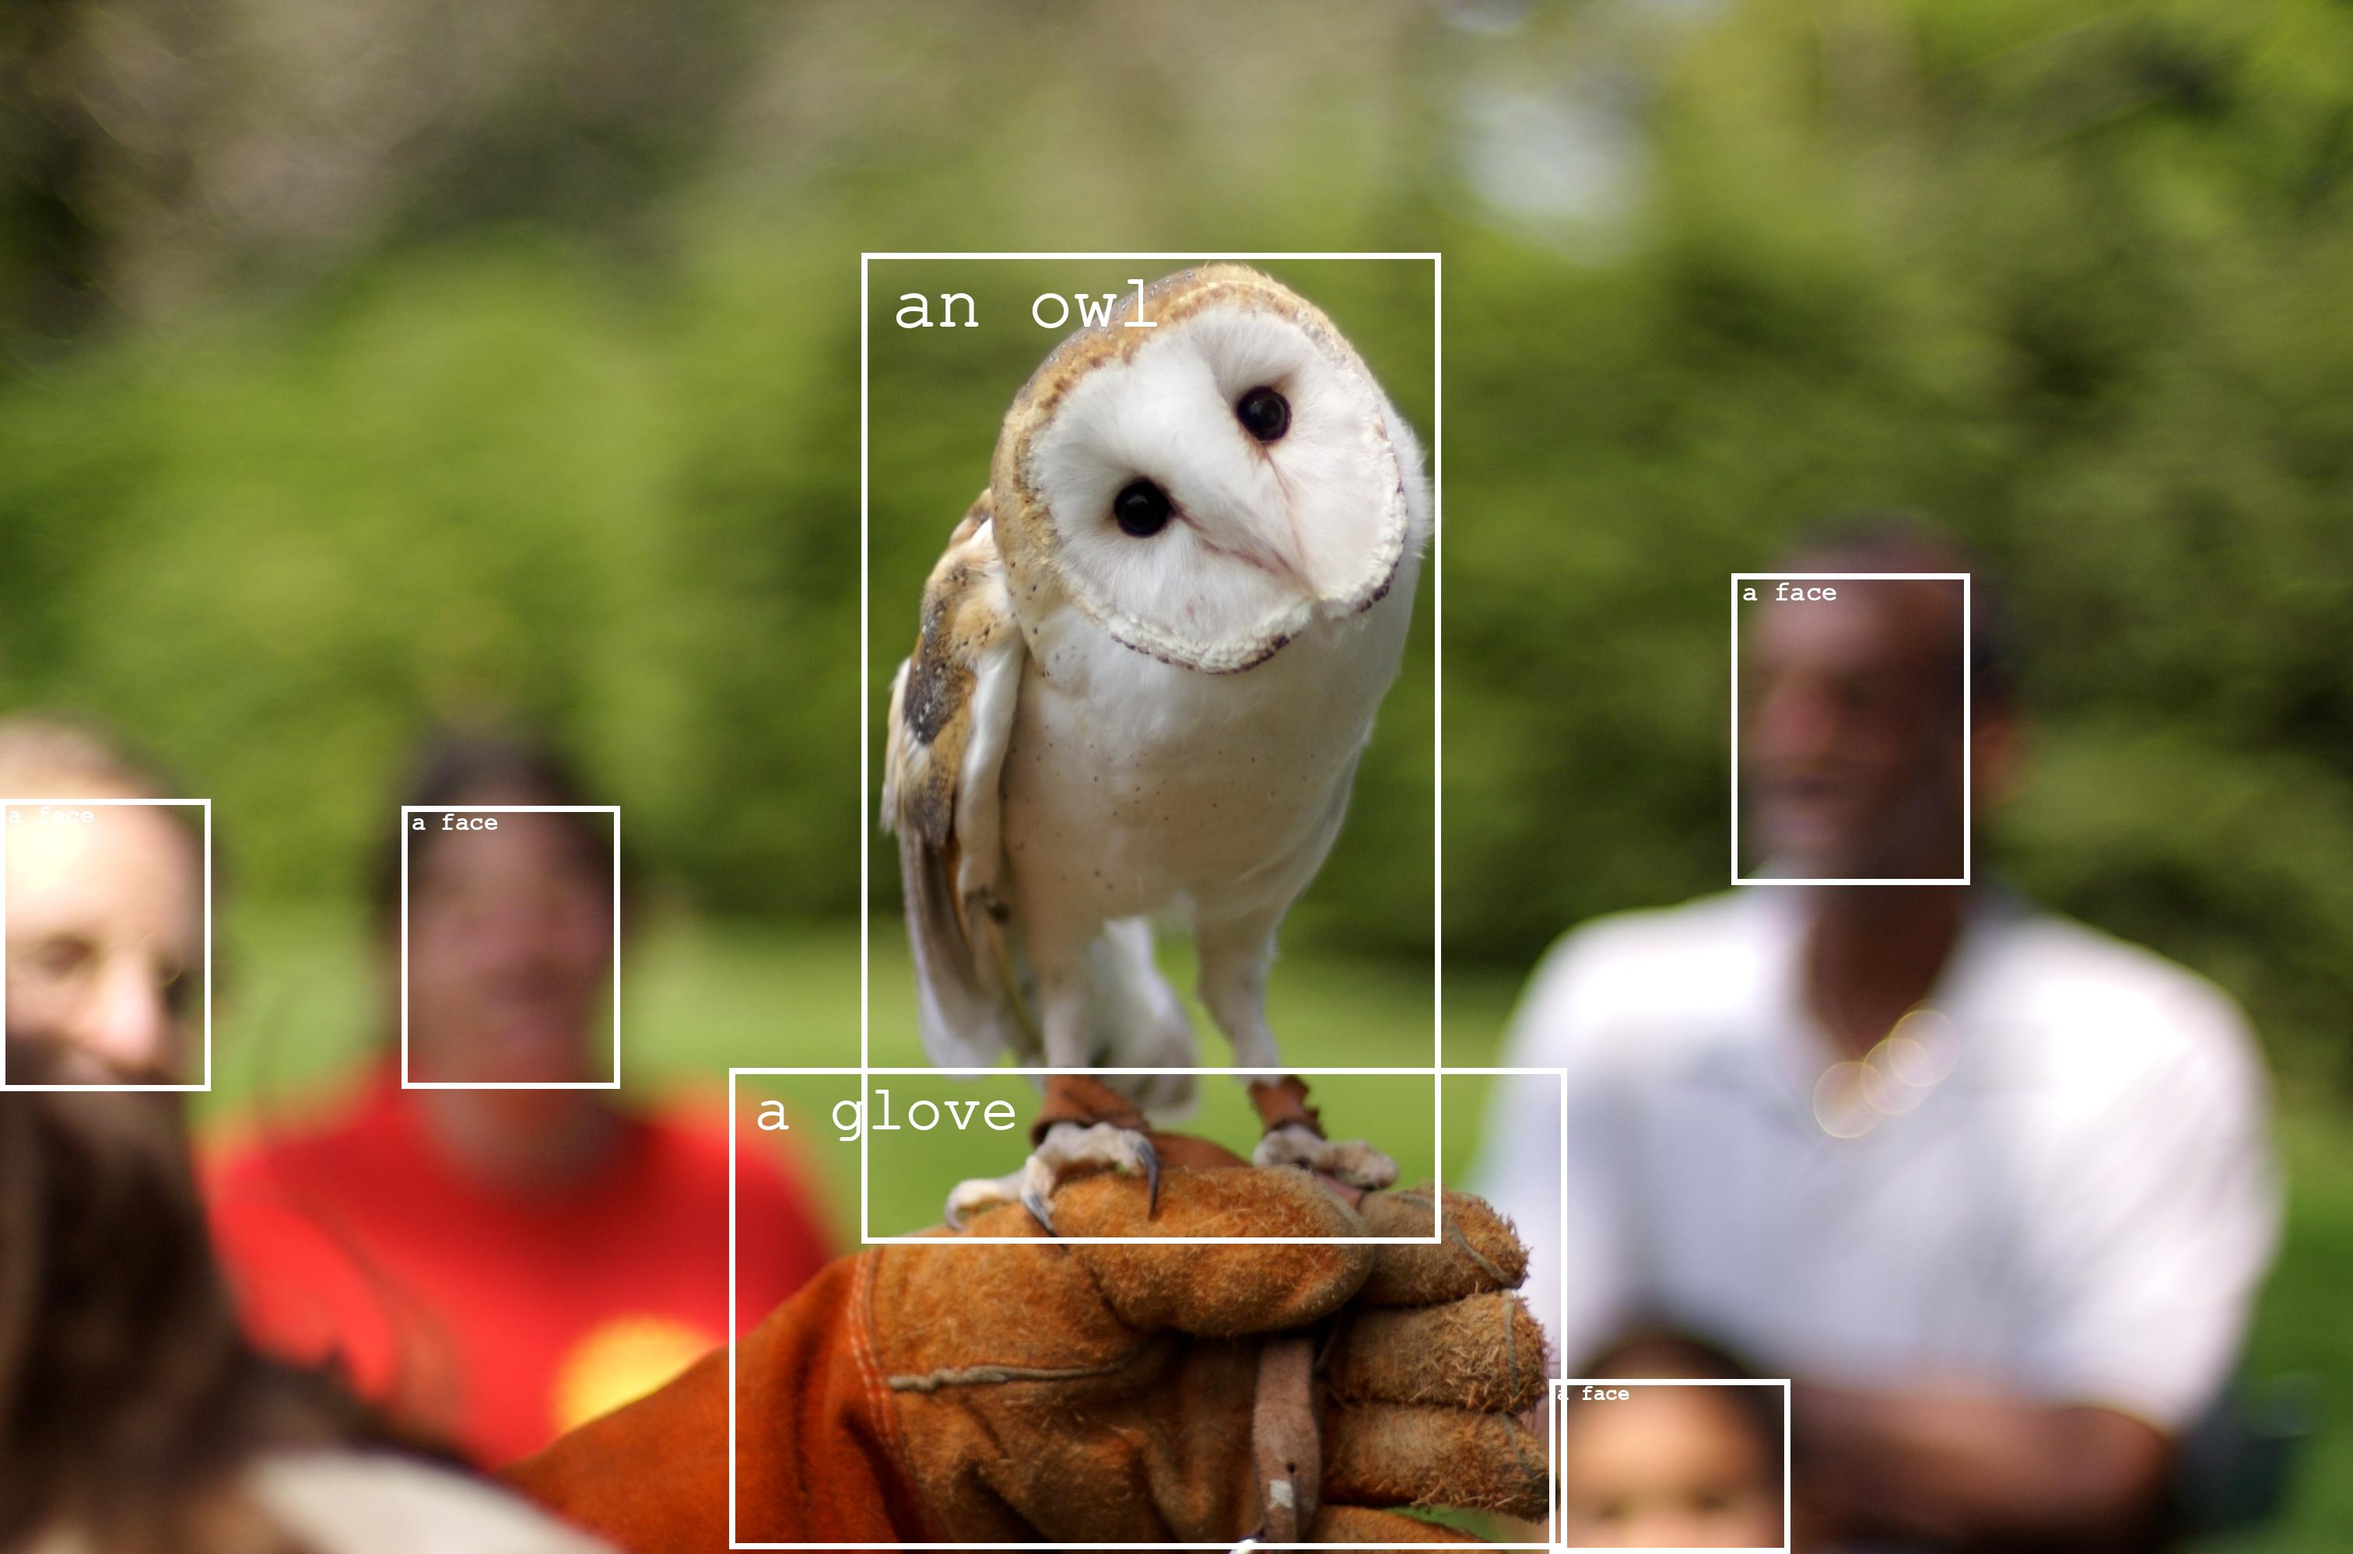
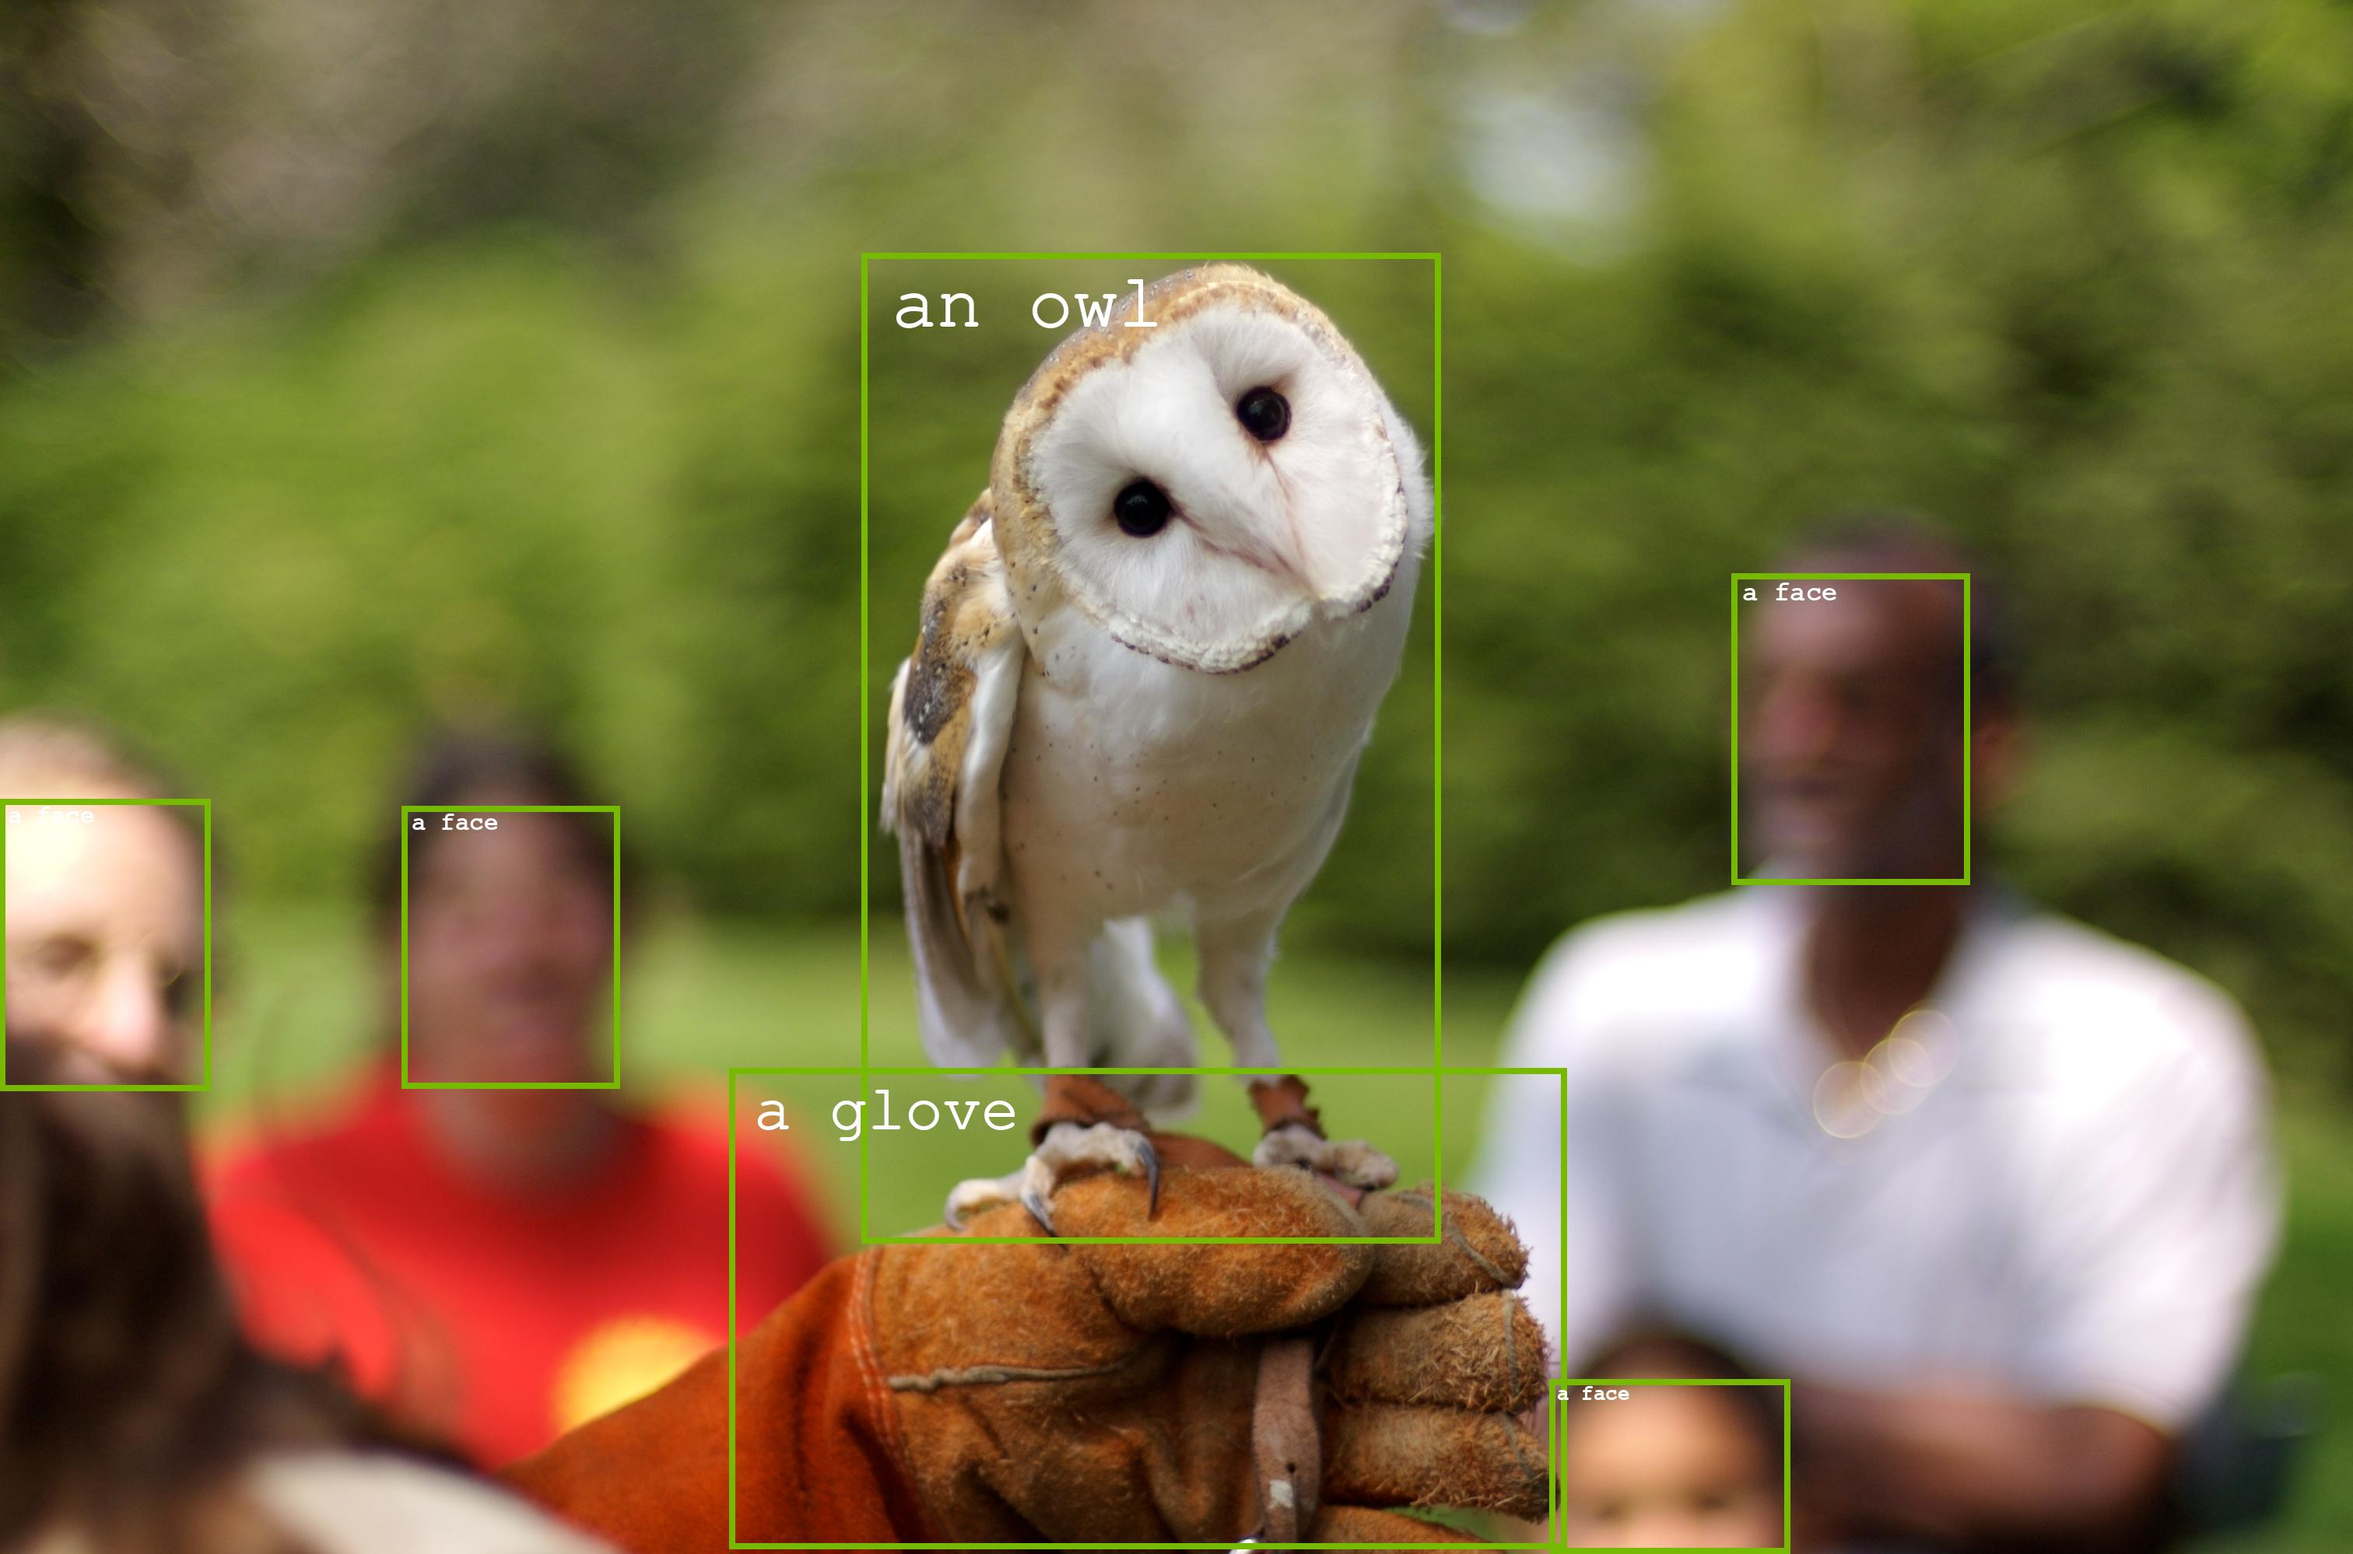
replace drawing

diff --git a/examples/basic_usage.py b/examples/basic_usage.py
@@ -9,10 +9,10 @@ if __name__ == "__main__":
     parser = argparse.ArgumentParser()
     parser.add_argument("--image", type=str, default="assets/owl_glove.jpg")
     parser.add_argument("--vision_engine", type=str, default="data/owlvit_vision_model.engine")
-    parser.add_argument("--prompt", nargs='+', required=True)
+    parser.add_argument("--prompt", action='append', required=True)
     parser.add_argument("--thresh", type=float, default=0.1)
     args = parser.parse_args()
-    
+    print(args)
     predictor = Predictor(threshold=args.thresh, vision_engine=args.vision_engine)
 
     image = PIL.Image.open(args.image)

diff --git a/nanoowl/utils/drawing.py b/nanoowl/utils/drawing.py
@@ -33,7 +33,7 @@ def draw_detection(
 
     if draw_bbox:
         # draw.rectangle(((x0, y0), (x1, y1)), fill=(118, 185, 0, 160))
-        draw.rectangle(((x0, y0), (x1, y1)), outline=(255, 255, 255, 255), width=8)
+        draw.rectangle(((x0, y0), (x1, y1)), outline=(118, 185, 0, 255), width=8)
 
     if draw_text:
 
